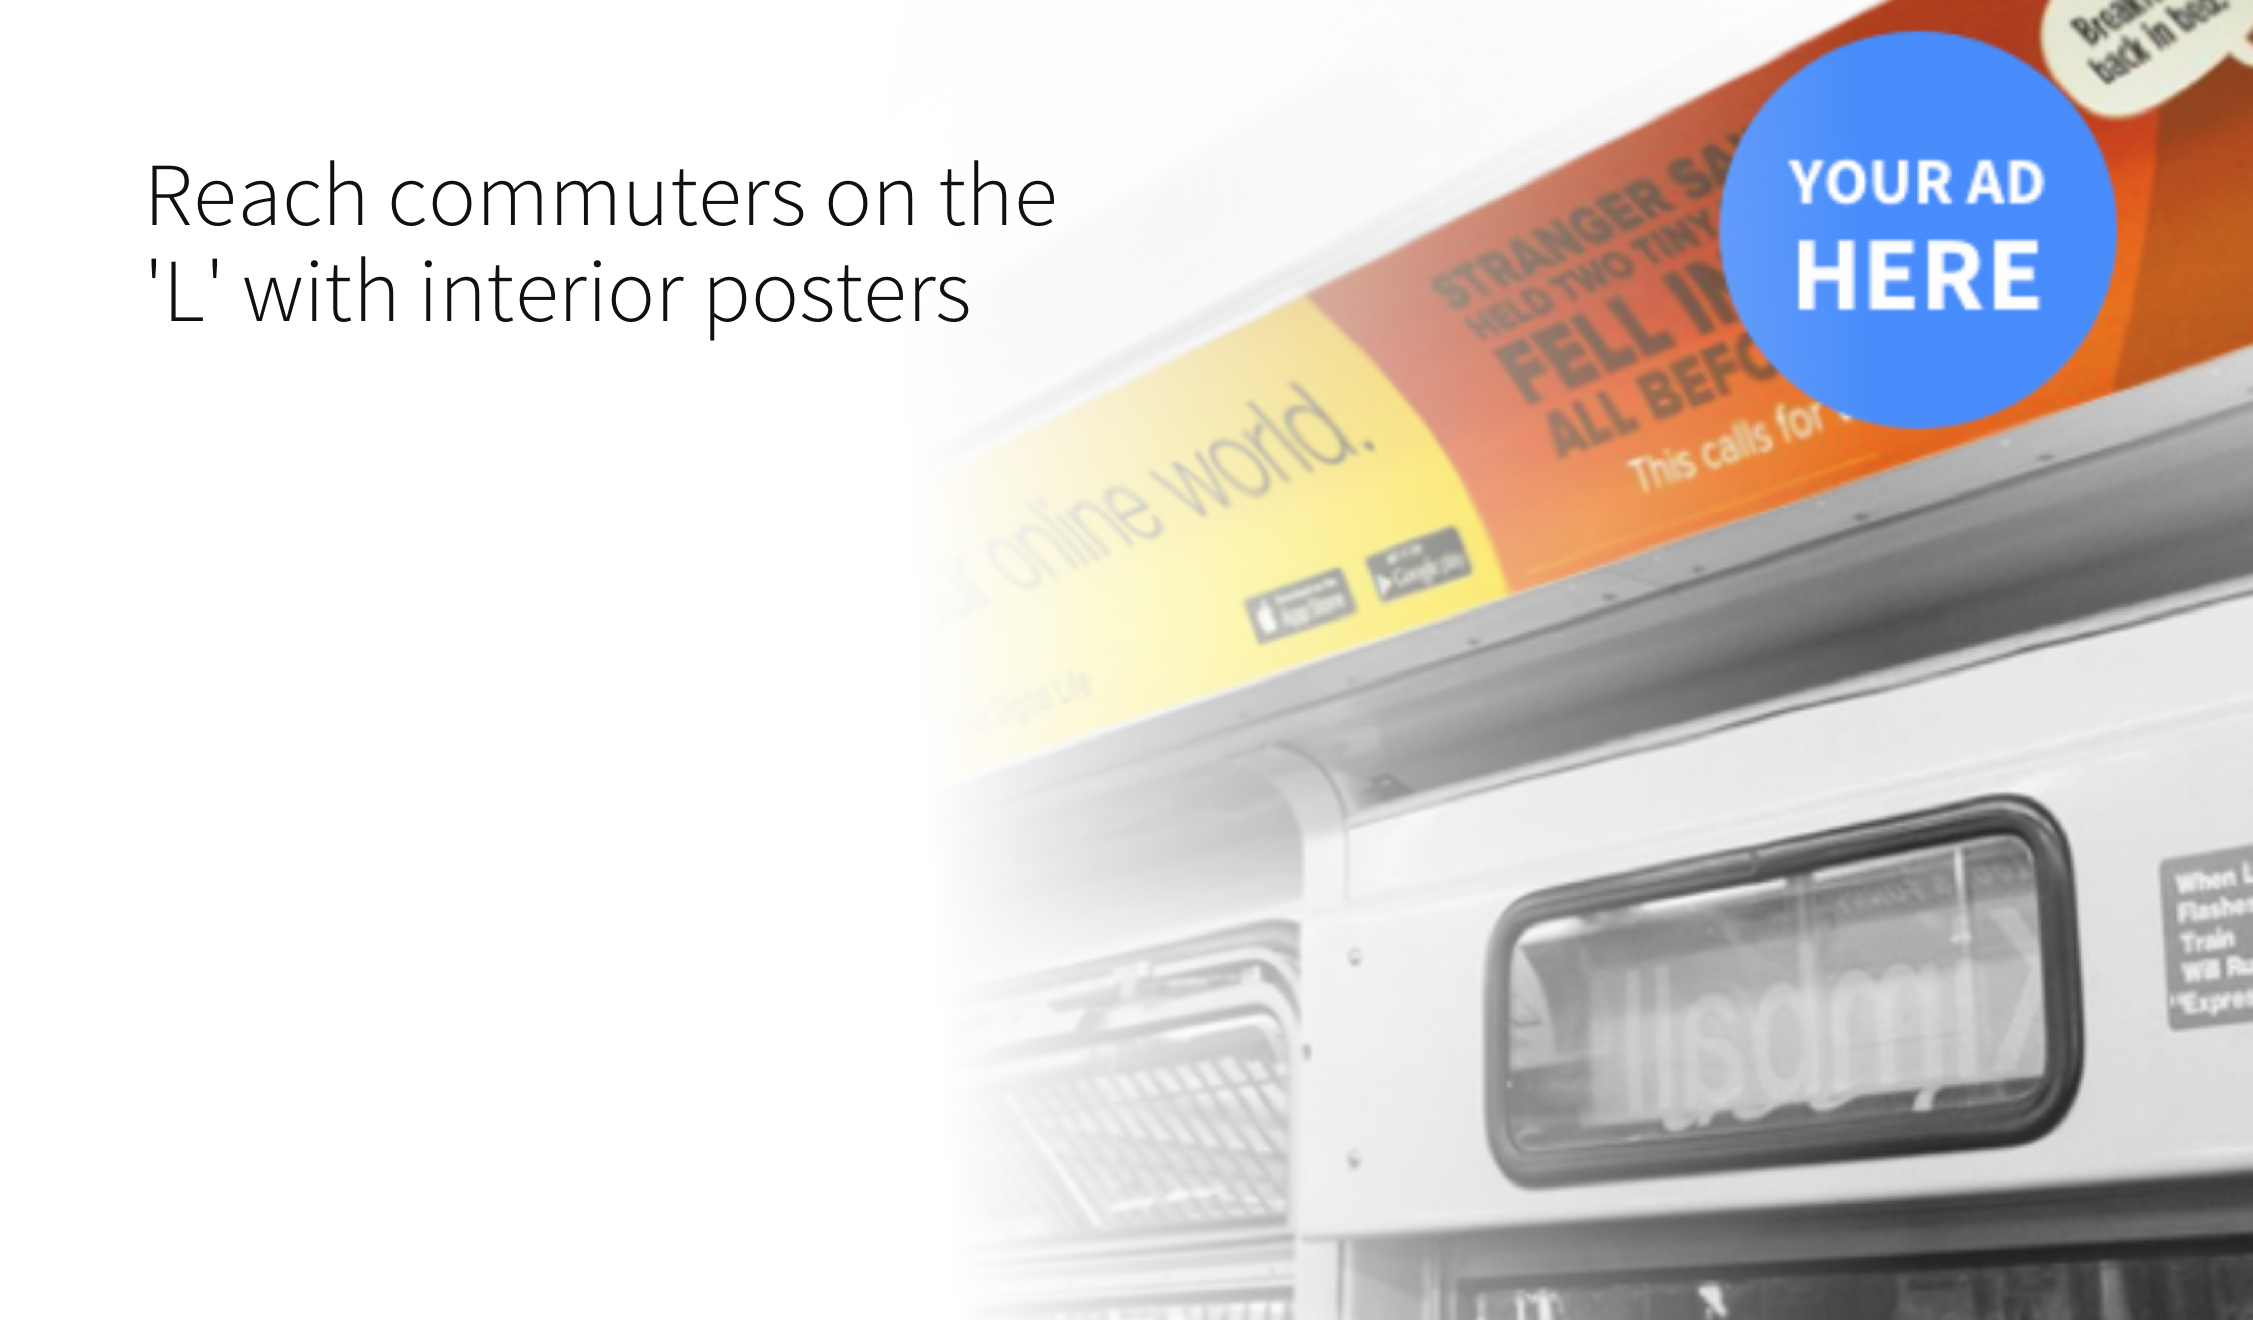
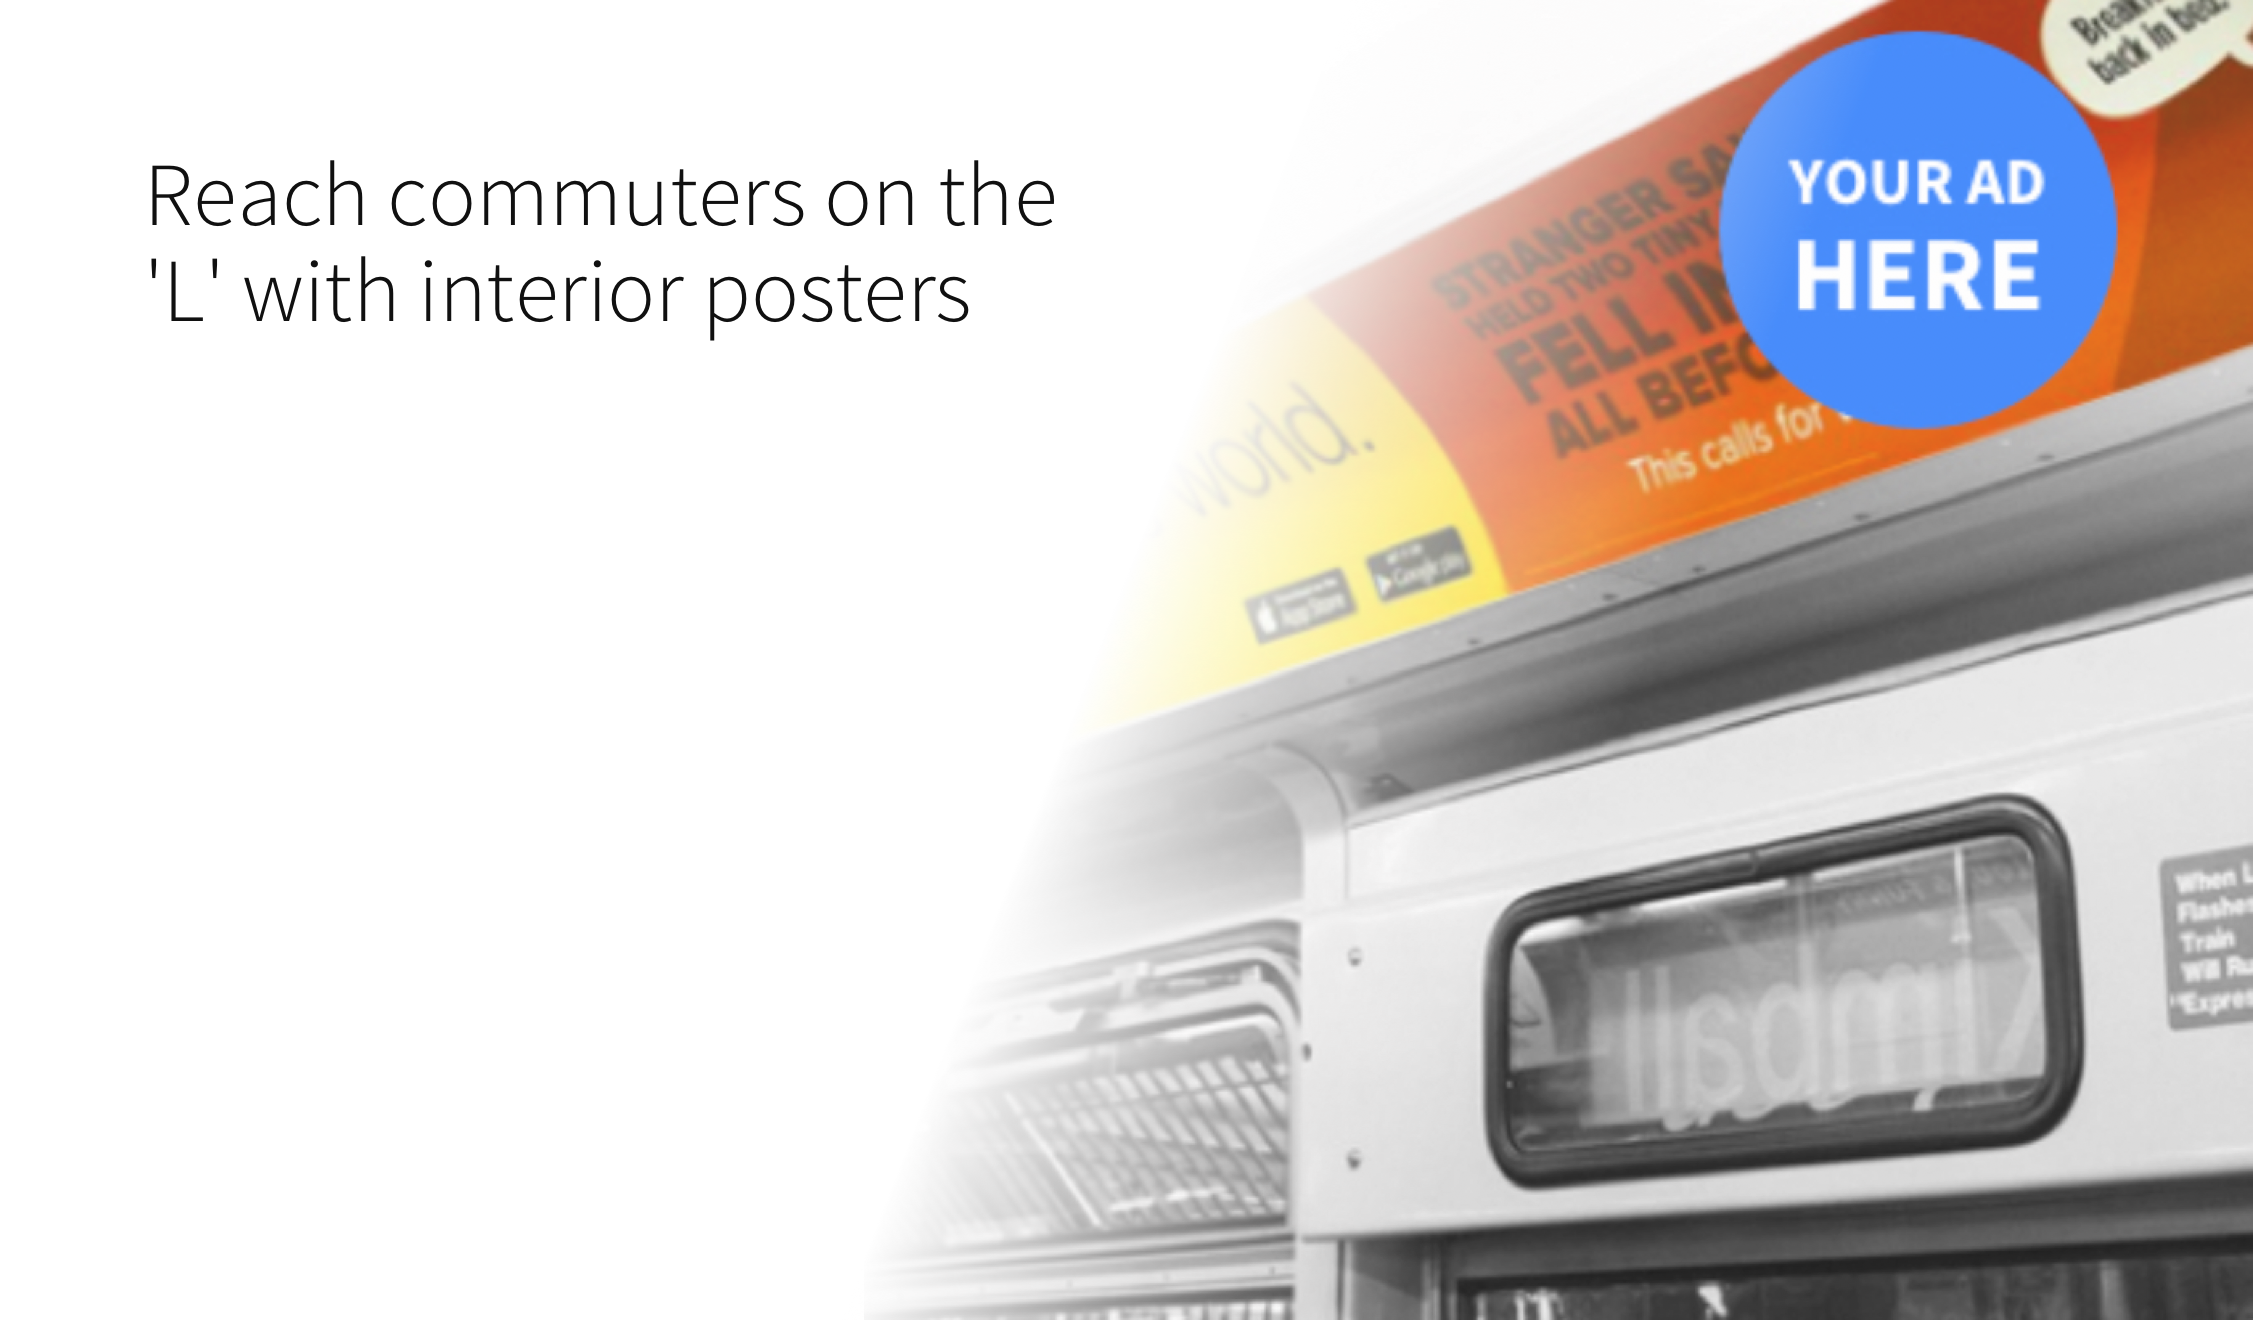
transit available market
transit available market

Changed region(s): [[0.4039, 0.6523, 0.8078, 1.0], [0.435, 0.0621, 0.7767, 0.5591], [0.5903, 0.2795, 0.8078, 0.6212]]

diff --git a/transit.html b/transit.html
@@ -64,7 +64,7 @@
 					</div>
 					<div id="4"></div>
 					<div class="box">
-						<img src="images/web_availablemarkets.png" width="751px" alt="">
+						<img src="images/transit_availablemarkets.png" width="751px" alt="">
 					</div>
 
 				
